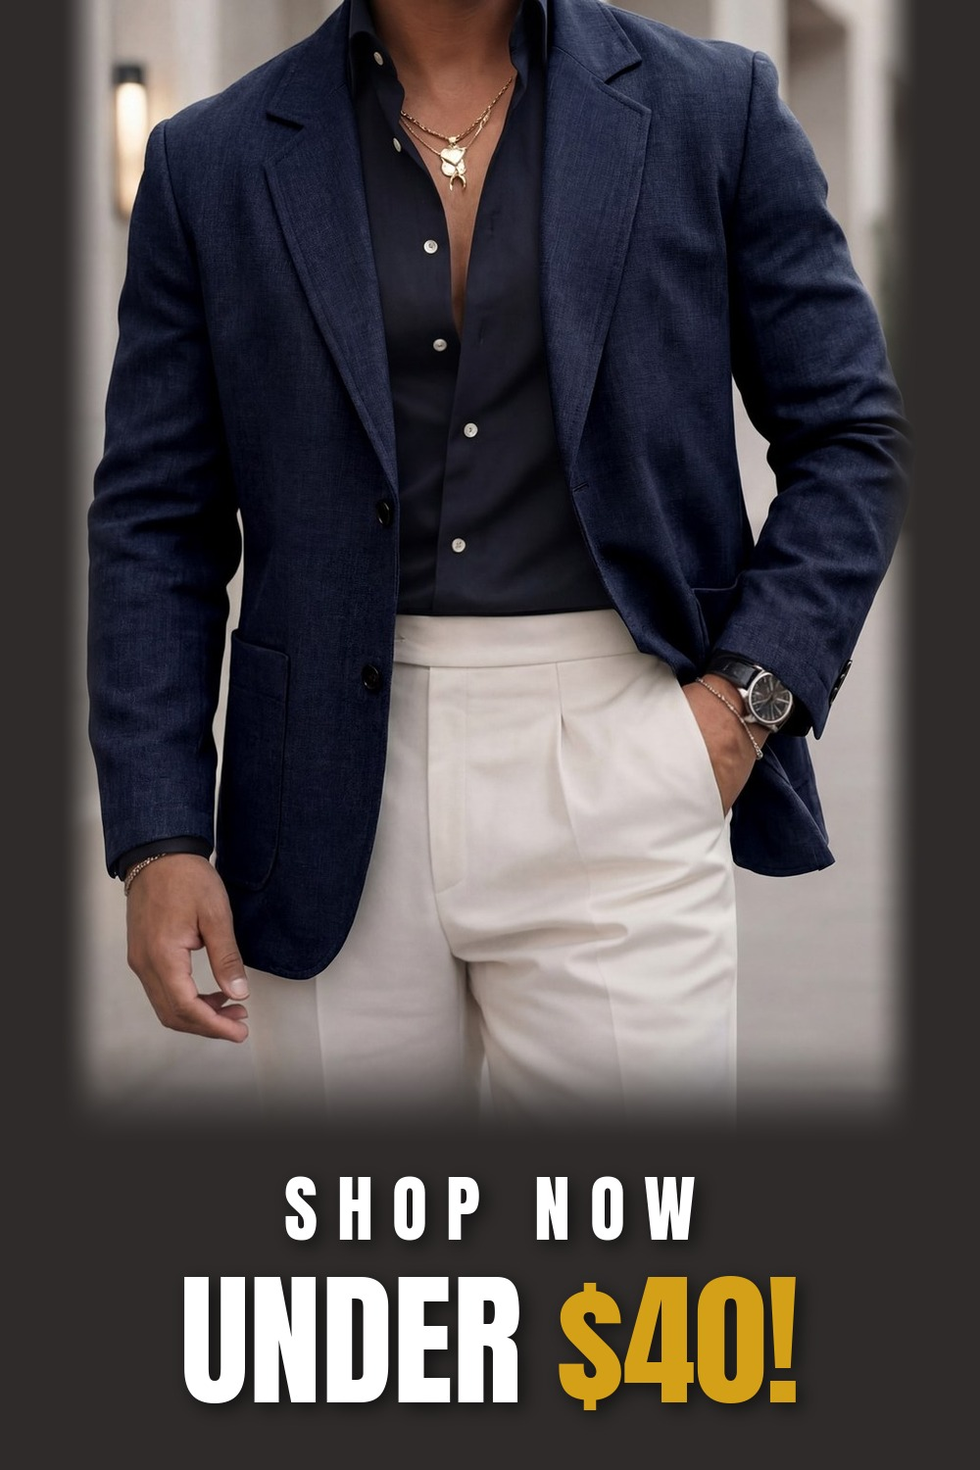
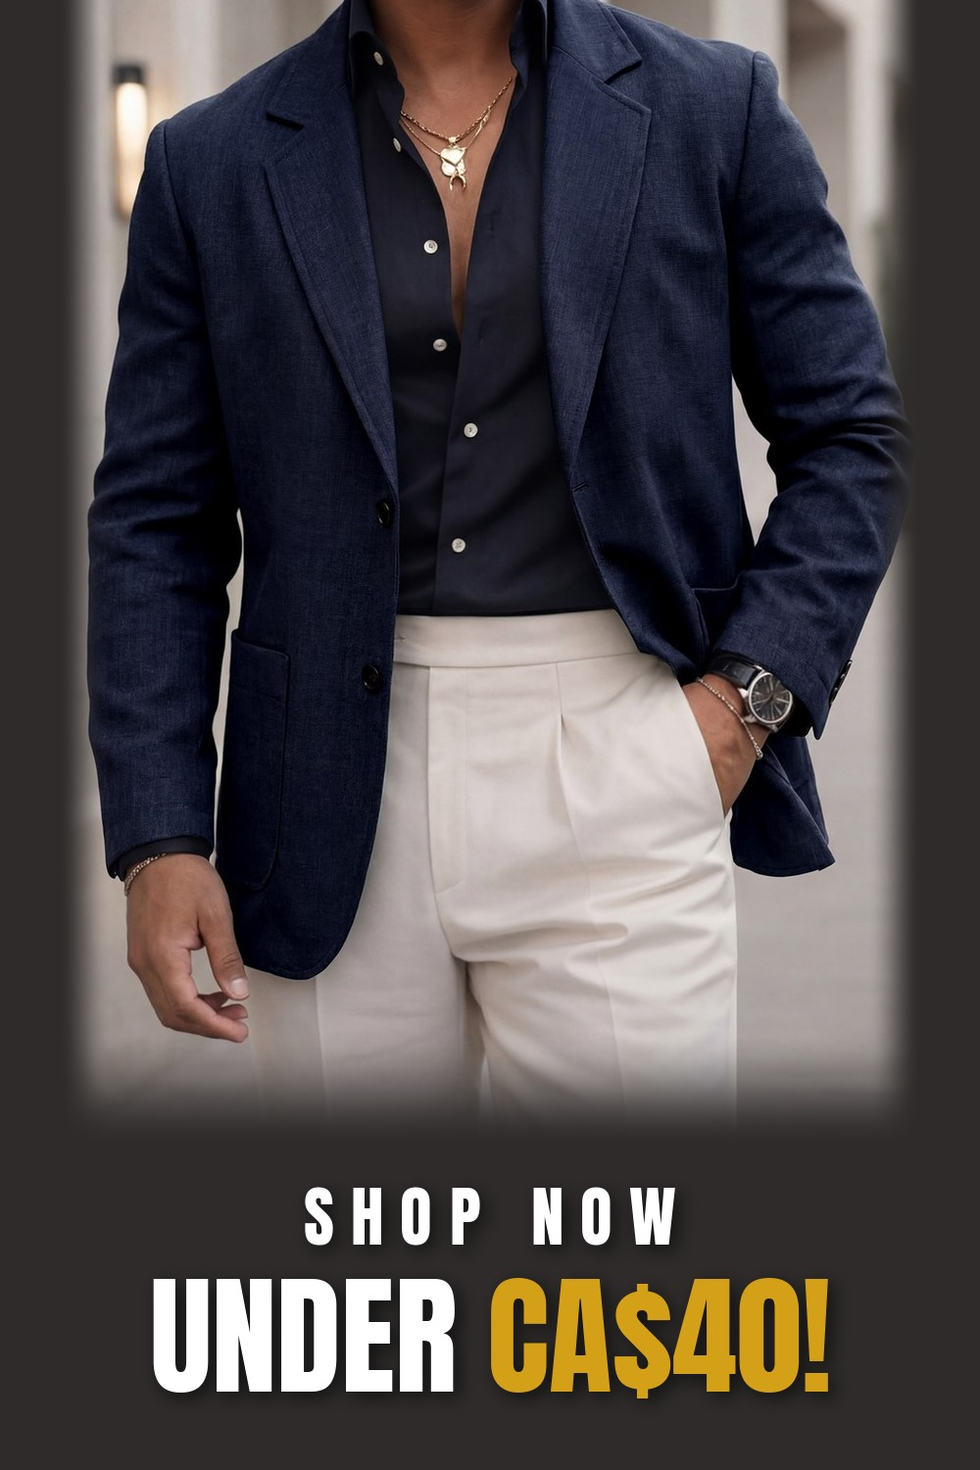
Show SHEIN pin prices as CA$ and re-render the Nov 9 pins
Links go to SHEIN Canada and prices are CAD, so product and outfit pins
now read "UNDER CA$X!". The CSV builder treats a bare "$" in the copy of
a SHEIN pin as an error from the Nov 9 batch on, and as a report warning
for older batches, which are already uploaded.

Nov 9: 20 product pins and the one outfit pin with a price re-rendered,
46 "$" changed to "CA$" in the pin copy, CSV and report regenerated.
Section names containing "$" are unchanged.

Changed region(s): [[0.155, 0.7973, 0.868, 0.9813]]

diff --git a/make_outfit_pin.py b/make_outfit_pin.py
@@ -16,7 +16,7 @@ Styles (default fade):
              (price line up to 70% of the width): a letter-spaced "SHOP THE
              LOOK" (gold "ON SALE NOW" if any item has a discount_percent,
              unless --no-sale-line)
-             at half the height of "UNDER $X!" below it (price in gold).
+             at half the height of "UNDER CA$X!" below it (price in gold).
              A photo taller than 3:4 with at least 18% empty floor at the
              bottom keeps its shape; the text goes in a fade over that floor.
              Anything else becomes a 1000x1500 (2:3) pin: the photo shrunk so
@@ -35,8 +35,10 @@ plain outfit-preview; outfit-pin.jpg is only for Pinterest.
 
 Price: the outfit's products.json prices (every record its page's cards
 link to, including items reused from another campaign) are totalled and rounded up to the next
-$5, giving "UNDER $X!" (112.30 -> UNDER $115!). An exact multiple of $5
-goes up to the next one (115.00 -> UNDER $120!) so the claim stays true.
+$5, giving "UNDER CA$X!" (112.30 -> UNDER CA$115!). An exact multiple of $5
+goes up to the next one (115.00 -> UNDER CA$120!) so the claim stays true.
+That's CA$ when every priced item is CAD (SHEIN links go to SHEIN Canada),
+else a plain $.
 If any item has no stored price (Amazon, Awin) the total would be
 wrong, so fade reads "SHOP THE LOOK" / "FULL FIT ↓" instead
 (the other styles say "SHOP THE FULL LOOK").
@@ -117,6 +119,16 @@ def price_cap(items):
         return None
     cents = sum(round(p["price"] * 100) for p in items)
     return (cents // 500 + 1) * 5
+
+
+def price_text(items):
+    """The total as the pin prints it: "CA$115" when every item is CAD, "$115"
+    otherwise, or None when price_cap has no total."""
+    cap = price_cap(items)
+    if cap is None:
+        return None
+    symbol = "CA$" if all(p.get("currency") == "CAD" for p in items) else "$"
+    return f"{symbol}{cap}"
 
 
 # ---------------------------------------------------------------- helpers
@@ -220,7 +232,7 @@ def deep_colour(img, box, value=0.18):
 
 def style_classic(img, cap, on_sale):
     w, h = img.size
-    text = f"UNDER ${cap}!" if cap else FALLBACK_TEXT
+    text = f"UNDER {cap}!" if cap else FALLBACK_TEXT
     top, bottom = round(0.678 * h), round(0.811 * h)
     overlay = Image.new("RGBA", img.size, (0, 0, 0, 0))
     ImageDraw.Draw(overlay).rectangle([0, top, w, bottom], fill=(0, 0, 0, 140))
@@ -258,7 +270,7 @@ def fade_text(pin, top, bottom, cap, on_sale):
         top_run, big_runs = ("SHOP THE LOOK", WHITE), [("FULL FIT ↓", WHITE)]
     else:
         top_run = ("ON SALE NOW", GOLD) if on_sale else ("SHOP THE LOOK", WHITE)
-        big_runs = [("UNDER ", WHITE), (f"${cap}!", GOLD)]
+        big_runs = [("UNDER ", WHITE), (f"{cap}!", GOLD)]
     big_text = "".join(t for t, _ in big_runs)
     w = pin.size[0]
 
@@ -352,7 +364,7 @@ def fade_extend(img, cap, on_sale):
 
 def style_tag(img, cap, on_sale):
     w, h = img.size
-    text = f"UNDER ${cap}" if cap else FALLBACK_TEXT
+    text = f"UNDER {cap}" if cap else FALLBACK_TEXT
     font = font_for_cap(0.032 * h)
     pad_x, pad_y = 0.9 * cap_h(font), 0.65 * cap_h(font)
     bw = text_width(font, text, 0.04 * cap_h(font)) + 2 * pad_x
@@ -380,7 +392,7 @@ def style_tag(img, cap, on_sale):
 
 def style_band(img, cap, on_sale):
     w, h = img.size
-    text = f"UNDER ${cap}!" if cap else FALLBACK_TEXT
+    text = f"UNDER {cap}!" if cap else FALLBACK_TEXT
     bh = round(0.085 * h)
     edges = edge_map(img)
     # Top tops from flush with the top edge; bottom ones down to flush
@@ -403,8 +415,9 @@ STYLES = {"classic": style_classic, "fade": style_fade, "tag": style_tag, "band"
 
 
 def render(preview_path, cap, on_sale, style="fade"):
-    """Returns (pin image, path taken). Only fade has paths ("overlay" or
-    "shrink") and returns a new canvas; the others draw on the photo."""
+    """Returns (pin image, path taken). cap is price_text's string, or None
+    for the no-total wording. Only fade has paths ("overlay" or "shrink")
+    and returns a new canvas; the others draw on the photo."""
     with Image.open(preview_path) as src:
         img = ImageOps.exif_transpose(src).convert("RGBA")
     pin, path = STYLES[style](img, cap, on_sale) or (img, None)
@@ -460,9 +473,9 @@ def main():
                 print(f"skip  {rel}: {why}")
                 skipped += 1
             continue
-        cap = price_cap(items)
+        cap = price_text(items)
         on_sale = not args.no_sale_line and any((p.get("discount_percent") or 0) > 0 for p in items)
-        label = (f"UNDER ${cap}" if cap else "no total") + (", on sale" if on_sale else "")
+        label = (f"UNDER {cap}" if cap else "no total") + (", on sale" if on_sale else "")
         pin, path = render(preview, cap, on_sale, args.style)
         pin.save(os.path.join(d, PIN_NAME), quality=92, optimize=True)
         how = f"{args.style}: {path}" if path else args.style

diff --git a/make_product_pin.py b/make_product_pin.py
@@ -1,7 +1,7 @@
 #!/usr/bin/env python3
 """
 Makes the Pinterest pin image for a single SHEIN product: the product's
-own photo with "SHOP NOW / UNDER $X!" text, saved as product-pin.jpg
+own photo with "SHOP NOW / UNDER CA$X!" text, saved as product-pin.jpg
 in the product folder. The photo is never cropped, and the original is
 never written to.
 
@@ -22,14 +22,15 @@ Layout: the same two paths as make_outfit_pin.py --style fade.
              at the bottom keeps its shape (scaled to 1000 wide); the text
              goes in a fade over that floor.
 Text: two centred Anton lines with a soft drop shadow, small
-letter-spaced white "SHOP NOW" over "UNDER $X!" (UNDER white, price
+letter-spaced white "SHOP NOW" over "UNDER CA$X!" (UNDER white, price
 gold #D4A017), the price line up to 70% of the pin's width, smaller if
 the block doesn't fit the space.
 
 Price: the product's products.json price, rounded UP. Under $10 to the
-next whole dollar (4.20 -> UNDER $5); $10 and up to the next $5
-(14.38 -> UNDER $15). An exact step goes one higher (15.00 -> UNDER $20)
-so "under" stays true. No % off is ever printed.
+next whole dollar (4.20 -> UNDER CA$5); $10 and up to the next $5
+(14.38 -> UNDER CA$15). An exact step goes one higher (15.00 -> UNDER CA$20)
+so "under" stays true. No % off is ever printed. A product with currency
+CAD reads CA$ (SHEIN links go to SHEIN Canada); any other reads a plain $.
 
 SHEIN only: Amazon/Awin products and products without a price are
 skipped, as are image_pending products (no photo yet).
@@ -92,6 +93,12 @@ def price_cap(price):
     if cents < 1000:
         return cents // 100 + 1
     return (cents // 500 + 1) * 5
+
+
+def price_text(p):
+    """The price as the pin prints it: "CA$15" for a CAD product, else "$15"."""
+    symbol = "CA$" if p.get("currency") == "CAD" else "$"
+    return f"{symbol}{price_cap(p['price'])}"
 
 
 def eligible(p):
@@ -215,11 +222,12 @@ def vertical_fade(img, y0, y1, colour, max_alpha=255):
 
 
 def draw_text(img, top, bottom, cap, runs=None):
-    """"SHOP NOW" over "UNDER $X!", or runs = (top run, big runs) in their
-    place, centred between top and bottom: the big line as wide as
-    TEXT_WIDTH allows, smaller if the block is taller than the space."""
+    """"SHOP NOW" over "UNDER <cap>!" (cap as price_text gives it), or runs =
+    (top run, big runs) in their place, centred between top and bottom: the
+    big line as wide as TEXT_WIDTH allows, smaller if the block is taller
+    than the space."""
     w = img.size[0]
-    top_run, big_runs = runs or (("SHOP NOW", WHITE), [("UNDER ", WHITE), (f"${cap}!", GOLD)])
+    top_run, big_runs = runs or (("SHOP NOW", WHITE), [("UNDER ", WHITE), (f"{cap}!", GOLD)])
     big_text = "".join(t for t, _ in big_runs)
 
     def block(big):
@@ -374,10 +382,10 @@ def main():
         if dead:
             note += f" ({len(dead)} dead or sold out)"
         print(f"{args.batch}: {len(pool)} products, {len(ok)} eligible SHEIN{note}, picked {len(chosen)}\n")
-        print(f"  {'#':>2}  {'price':>7}  {'disc':>4}  {'tag':<9}  product")
+        print(f"  {'#':>2}  {'price':>7}  {'disc':>4}  {'tag':<12}  product")
         for i, p in enumerate(chosen, 1):
             disc = f"{p['discount_percent']}%" if p.get("discount_percent") else "-"
-            print(f"  {i:>2}  {p['price']:>7.2f}  {disc:>4}  UNDER ${price_cap(p['price']):<3}  {p['id']}")
+            print(f"  {i:>2}  {p['price']:>7.2f}  {disc:>4}  UNDER {price_text(p):<6}  {p['id']}")
         print()
         todo += [p for p in chosen if p not in todo]
 
@@ -401,9 +409,9 @@ def main():
             continue
         if args.dry_run:
             continue
-        pin, path = render(photo, price_cap(p["price"]))
+        pin, path = render(photo, price_text(p))
         pin.save(out, quality=92, optimize=True)
-        print(f"made  {os.path.relpath(out, REPO)} [{path}]: UNDER ${price_cap(p['price'])}")
+        print(f"made  {os.path.relpath(out, REPO)} [{path}]: UNDER {price_text(p)}")
         made += 1
 
     if not args.dry_run:

diff --git a/make_pinterest_csv.py b/make_pinterest_csv.py
@@ -63,9 +63,13 @@ the live site (so push the pin images first), title <= 100 and full
 description <= 500 characters (Pinterest's limits), boards/sections in
 pin_settings.json, no duplicate pins/images/titles, no publish time in
 the past, no "$" in the copy of a pin with an Amazon item (Amazon
-prices can't be shown), no product pin of a SHEIN product whose seller
-is "marketplace" (a third-party store; see sellers.py). Product pins
-whose seller is still "unchecked" go through, listed in the report.
+prices can't be shown), no bare "$" (one not preceded by "CA") in the
+title, description or alt text of a pin with a SHEIN item (SHEIN prices
+are CAD, so they read CA$; only a warning in the report for a batch
+starting before CAD_COPY_FROM, whose pins are already uploaded), no
+product pin of a SHEIN product whose seller is "marketplace" (a
+third-party store; see sellers.py). Product pins whose seller is still
+"unchecked" go through, listed in the report.
 
 --unpushed-media turns a Media URL that isn't live yet but exists in the
 repo into a warning, so a CSV can go in a PR with its new images. Rebuild
@@ -365,9 +369,11 @@ def check_live(pins, problems, warnings, unpushed_media=False):
 # --- validation ------------------------------------------------------------
 
 REQUIRED = ("type", "id", "title", "description", "hashtags", "alt_text", "board", "section")
+BARE_DOLLAR = re.compile(r"(?<!CA)\$")
+CAD_COPY_FROM = date(2026, 11, 9)   # first batch held to CA$ in its pin copy
 
 
-def validate(pins, settings, problems):
+def validate(pins, settings, problems, warnings, week_start):
     boards = settings["boards"]
     seen = {}
     for p in pins:
@@ -399,6 +405,12 @@ def validate(pins, settings, problems):
                             f"(disclosure_retailers in pin_settings.json)")
         if p["has_amazon"] and "$" in title + p["description"]:
             problems.append(f"{label}: '$' in the copy of a pin with an Amazon item")
+        if "SHEIN" in p["retailers"]:
+            bare = [k for k in ("title", "description", "alt_text") if BARE_DOLLAR.search(p[k])]
+            if bare:
+                listed = problems if week_start >= CAD_COPY_FROM else warnings
+                listed.append(f"{label}: bare '$' in the {', '.join(bare)} of a pin with a "
+                              f"SHEIN item (SHEIN prices are CAD: write CA$)")
         for key, val in (("pin", (p["type"], p["id"])), ("Media URL", p["media"]),
                          ("title", title.casefold())):
             if (key, val) in seen:
@@ -537,7 +549,7 @@ def main():
     if not pins:
         problems.append("no usable pins")
     else:
-        validate(pins, settings, problems)
+        validate(pins, settings, problems, warnings, week_start)
         days = schedule(pins, week_start)
         now = datetime.now(timezone.utc)
         for p in pins:

diff --git a/pinterest/pinterest_bulk_nov-9_report.md b/pinterest/pinterest_bulk_nov-9_report.md
@@ -50,7 +50,7 @@ Files: pinterest/pinterest_bulk_nov-9.csv
 These section names contain "/", which Pinterest's board column uses to separate board from section, so these pins go to the board only. Move them after upload, or rename the section without a "/" and list the new name in pin_settings.json.
 
 - The Winter Date Night Trench Fit 🌙 → Business Casual Outfits for Men › Date Night/Night Out
-- Khaki Trench Coat Under $55 for Date Night 🌙 → Business Casual Outfits for Men › Date Night/Night Out
+- Khaki Trench Coat Under CA$55 for Date Night 🌙 → Business Casual Outfits for Men › Date Night/Night Out
 - A Black Rib Knit Turtleneck for Date Night 🌙 → Business Casual Outfits for Men › Date Night/Night Out
 
 ### AI-modified label
@@ -107,8 +107,8 @@ The CSV has no column for it. Paste after upload:
 
 - The Sherpa-Lined Brown Jacket for Cold Tailgates 🍂: Men's brown faux leather jacket with beige sherpa lining
 - The Leafs Night Fit That Still Looks Like an Outfit 🏒: Men's hockey night outfit with blue hoodie, black jacket, jeans and snow boots
-- Thermal-Lined Jeans Under $55 🔥: Men's blue water-washed jeans with thermal lining
-- A Light Blue Button Down Under $25 👔: Men's light blue smart casual button down shirt
+- Thermal-Lined Jeans Under CA$55 🔥: Men's blue water-washed jeans with thermal lining
+- A Light Blue Button Down Under CA$25 👔: Men's light blue smart casual button down shirt
 - A Clean Black Full-Zip Sweater 🖤: Men's black full-zip cotton sweater
 - Oilers Fans, This Is the Cold-Weather Fit 🧡💙: Men's winter street outfit with royal blue hoodie, black padded coat and black boots
 - The Sleek Black Tommy Hilfiger Boot 🖤: Men's black Tommy Hilfiger lace-up boots
@@ -117,42 +117,42 @@ The CSV has no column for it. Paste after upload:
 - Red Goal Light Energy, No Jersey Needed 🚨: Men's hockey night outfit with red sweatshirt, black moto jacket, jeans and red scarf
 - The House of Blanks Navy Crewneck for Hockey Night 💙: Men's navy House of Blanks relaxed fit fleece crewneck
 - A Hooded Padded Coat for Winter Nights 🖤: Men's black hooded padded winter coat with zip front
-- A Wool Blend Chore-Style Jacket Under $45 🧥: Men's khaki wool blend chore-style shirt jacket
+- A Wool Blend Chore-Style Jacket Under CA$45 🧥: Men's khaki wool blend chore-style shirt jacket
 - The All-Black Fit for a Late Puck Drop 🖤: Men's all-black hockey night outfit with padded coat and red plaid beanie and scarf
-- Black Pleated Dress Pants Under $30 👖: Men's black pleated straight leg dress pants
-- A Fluffy Pajama Set Under $40 🛋: Men's royal blue fleece pajama top with black and white plaid pants
+- Black Pleated Dress Pants Under CA$30 👖: Men's black pleated straight leg dress pants
+- A Fluffy Pajama Set Under CA$40 🛋: Men's royal blue fleece pajama top with black and white plaid pants
 - A Burgundy Sherpa-Lined Hooded Fleece 🍷: Men's burgundy full-zip hooded fleece with sherpa lining
 - Kamik Snow Boots for the Walk to the Game ❄: Men's black Kamik Forester snow boots
 - The Timex Easy Reader, a Gift That Never Dates ⌚: Men's Timex Easy Reader watch with brown leather strap
 - Navy Night at the Rink, Done Right 💙: Men's navy outfit with sherpa trucker jacket, khaki chinos and brown Chelsea boots
 - An Oilers Hoodie for Hockey Night 🧡💙: AI colour match of a royal hoodie for a licensed Oilers hoodie
 - House of Blanks Black Speckle Hoodie 🌨: Men's black speckle House of Blanks pullover hoodie
-- Thermal Lined Coat Under $55 for Real Cold ❄: Men's black thermal lined padded coat with a collar
-- A Brown Faux Suede Shacket Under $30 🤎: Men's brown faux suede fleece lined shacket
+- Thermal Lined Coat Under CA$55 for Real Cold ❄: Men's black thermal lined padded coat with a collar
+- A Brown Faux Suede Shacket Under CA$30 🤎: Men's brown faux suede fleece lined shacket
 - The Cold Tailgate Fit That Actually Keeps You Warm 🏈: Men's cold tailgate outfit with plaid flannel, brown sherpa jacket, jeans and boots
-- Black Cuffed Sweatpants Under $20 🛋: Men's black cuffed sweatpants with drawstring waist
-- A Navy Suit Blazer Under $40 💼: Men's navy blue suit blazer
+- Black Cuffed Sweatpants Under CA$20 🛋: Men's black cuffed sweatpants with drawstring waist
+- A Navy Suit Blazer Under CA$40 💼: Men's navy blue suit blazer
 - A Heavy Hoodie for the Coldest Game Days 🥶: Men's black heather Legendary Whitetails hooded sweatshirt
 - Columbia Firecamp Boots for Cold, Wet Days 🥾: Men's black and grey Columbia Firecamp lace-up boots
 - Levi's Red Plaid Beanie and Scarf Set 🧣: Men's red plaid Levi's waffle beanie and scarf set
 - Winter Sideline Fit, Built for the Late Season 🥶: Men's cold game day outfit with grey puffer jacket, black hoodie, gloves and boots
 - A '47 Raptors Vintage Tee for Game Night 🏀: AI colour match of a black tee for a licensed Raptors tee
 - House of Blanks Black Straight Leg Sweatpants 🖤: Men's black House of Blanks straight leg sweatpants
-- Light Grey Short Padded Coat Under $60 🌨: Men's light grey short padded coat with stand collar
-- The Plain Black Hoodie Under $30 🖤: Men's plain black pullover hoodie with kangaroo pocket
+- Light Grey Short Padded Coat Under CA$60 🌨: Men's light grey short padded coat with stand collar
+- The Plain Black Hoodie Under CA$30 🖤: Men's plain black pullover hoodie with kangaroo pocket
 - Raptors Night, Layered and Easy 🏀: Men's basketball night outfit with black tee, black zip sweater and white sneakers
-- A Red and White Sweatshirt Under $25 🚨: Men's red and white letter print sweatshirt
-- A Full Navy Suit Set Under $70 🤵: Men's navy blue notched collar blazer and pants suit set
+- A Red and White Sweatshirt Under CA$25 🚨: Men's red and white letter print sweatshirt
+- A Full Navy Suit Set Under CA$70 🤵: Men's navy blue notched collar blazer and pants suit set
 - The Easy Fleece Quarter-Zip From Wrangler 🌫: Men's light heather gray Wrangler fleece quarter-zip pullover
 - Tommy Hilfiger Low-Tops in White and Navy 👟: Men's white and navy Tommy Hilfiger low-top sneakers
 - The Casio Diver Style Watch ⌚: Men's silver-tone Casio diver style stainless steel watch
 - Friendsgiving Fit in Warm Browns 🍂: Men's holiday outfit with beige quarter-zip, brown shacket and black pants
 - A Black Rib Knit Turtleneck for Date Night 🌙: Men's black rib knit cotton turtleneck sweater
 - Heather Ash Straight Leg Sweatpants 🌫: Men's heather ash House of Blanks straight leg sweatpants
-- A Short Wool Overcoat Under $45 🖤: Men's short black wool overcoat with button front
-- A Beige Quarter-Zip Sweater for Under $40 🎁: Men's beige knit quarter-zip sweater with stand collar
+- A Short Wool Overcoat Under CA$45 🖤: Men's short black wool overcoat with button front
+- A Beige Quarter-Zip Sweater for Under CA$40 🎁: Men's beige knit quarter-zip sweater with stand collar
 - The Holiday Party Suit, Minus the Tie 🎄: Men's holiday party outfit with navy suit, black turtleneck and short black overcoat
-- A Colour Block Zip Sweatshirt Under $30 🖤: Men's black colour block zip-up sweatshirt
+- A Colour Block Zip Sweatshirt Under CA$30 🖤: Men's black colour block zip-up sweatshirt
 - The Columbia Hooded Jacket for Winter Game Days 🧥: Men's black Columbia insulated hooded winter jacket
 - Black Chelsea Boots That Go With Everything 🖤: Men's black Chelsea ankle boots with elastic side panels
 - Reebok Club C: The Classic Court Sneaker 👟: Men's chalk white and green Reebok Club C court sneakers
@@ -160,20 +160,20 @@ The CSV has no column for it. Paste after upload:
 - Speckle and Ash: Quiet Winter Streetwear 🌨: Men's winter streetwear outfit with light grey padded coat and grey sweatpants
 - An Olive Long-Sleeve Henley for Easy Layers 🌿: Men's olive heather long-sleeve henley
 - The House of Blanks Heavyweight Long Sleeve Tee 🖤: Men's off black House of Blanks heavyweight long sleeve tee
-- Khaki Trench Coat Under $55 for Date Night 🌙: Men's khaki button-front trench coat
-- A Black Button Cardigan Under $25 🖤: Men's black button-front cardigan
+- Khaki Trench Coat Under CA$55 for Date Night 🌙: Men's khaki button-front trench coat
+- A Black Button Cardigan Under CA$25 🖤: Men's black button-front cardigan
 - Black Hoodie, Chore Coat, Done 🧥: Men's streetwear outfit with black hoodie, khaki chore jacket and red plaid scarf
-- A Slim Black Turtleneck Under $15 🖤: Men's black slim fit turtleneck
+- A Slim Black Turtleneck Under CA$15 🖤: Men's black slim fit turtleneck
 - The Calvin Klein Puffer in Iron Grey 🥶: Men's Calvin Klein iron grey full-zip down puffer jacket
 - Dark Brown Chelsea Boots for Chinos and Trousers 🤎: Men's dark brown Deer Stags Chelsea boots
 - The Tommy Hilfiger Striped Scarf He'll Actually Wear 🎁: Men's red striped Tommy Hilfiger scarf
 - The Winter Date Night Trench Fit 🌙: Men's winter date night outfit with khaki trench coat and black turtleneck
 - Dark Khaki Stretch Chinos for Every Day 🍂: Men's dark khaki athletic-fit stretch chinos
 - The Relaxed Plaid Flannel for Cold Tailgates 🍂: Men's brown and red plaid relaxed-fit flannel shirt
-- A Black Moto Jacket Under $55 🏍: Men's black faux leather zip-up moto jacket
-- A Dark Grey Crew Neck Sweater Under $25 🌫: Men's dark grey crew neck sweater
+- A Black Moto Jacket Under CA$55 🏍: Men's black faux leather zip-up moto jacket
+- A Dark Grey Crew Neck Sweater Under CA$25 🌫: Men's dark grey crew neck sweater
 - The Navy Blazer Office Fit That Works All Winter 💼: Men's business casual outfit with navy blazer, black cardigan and light blue shirt
-- A Burgundy Henley Under $20 🍷: Men's burgundy long sleeve henley with button front
+- A Burgundy Henley Under CA$20 🍷: Men's burgundy long sleeve henley with button front
 - Levi's Corduroy Sherpa Trucker in Navy 💙: Men's navy corduroy Levi's trucker jacket with sherpa collar
 - Timberland Chelsea Boots in Full-Grain Leather 🍂: Men's dark brown full-grain leather Timberland Chelsea boots
 - Leather Touchscreen Gloves, a Gift That Gets Used 🎁: Men's black leather touchscreen gloves with ribbed cuff

diff --git a/CLAUDE.md b/CLAUDE.md
@@ -248,9 +248,9 @@ records exist, since the price comes from there), run
 also covers `-oct-12-2`, `-oct-12-3`, ...). It writes the Pinterest pin
 image `outfit-pin.jpg` into each campaign folder from its
 `outfit-preview.*`, with the price overlay that used to be added by hand
-in Gemini: "UNDER $X!" from the outfit's total rounded up to the next
-$5, or "FULL FIT ↓" when any item has no stored price (Amazon, Awin),
-under "SHOP THE LOOK" ("ON SALE NOW" if any item has a discount, unless
+in Gemini: "UNDER CA$X!" from the outfit's total rounded up to the next
+$5 (CA$ when every item is CAD, as SHEIN prices are), or "FULL FIT ↓"
+when any item has no stored price (Amazon, Awin), under "SHOP THE LOOK" ("ON SALE NOW" if any item has a discount, unless
 you pass `--no-sale-line`, as the Oct 26 / Nov 2 batch did). The
 site keeps using the plain `outfit-preview`, which the script never
 modifies. It prints one line per pin naming the path it took:
@@ -279,7 +279,7 @@ picks the batch's 20 best SHEIN deals (any with `discount_percent` of
 20 or more first, biggest discount first, then the rest cheapest first;
 smaller discounts don't count), prints the list, and writes the
 Pinterest pin `product-pin.jpg` into each product's folder: a 1000x1500
-pin with the product photo above "SHOP NOW" / "UNDER $X!" (the price
+pin with the product photo above "SHOP NOW" / "UNDER CA$X!" (the price
 rounded up: to the next dollar under $10, else to the next $5). Amazon
 and Awin products, products with no price, and `image_pending` products
 are skipped. The product's own photo is never modified. Add `--dry-run`
@@ -319,7 +319,9 @@ were hand-scheduled). It validates everything first and writes no CSV if anythin
 fails: every Link and Media URL must return 200 on the live site (so
 the pin images must be pushed first), titles ≤ 100 and full
 descriptions ≤ 500 characters, no duplicates, no past publish times,
-no "$" in the copy of a pin with an Amazon item, no retailer the
+no "$" in the copy of a pin with an Amazon item, no bare "$" (not
+"CA$") in the title, description or alt text of a pin with a SHEIN
+item (a report warning for batches before Nov 9), no retailer the
 disclosures don't cover (the Awin wording names House of Blanks, so another
 Awin merchant needs its own first), and every board and
 section must be listed in `pin_settings.json`. Keep that list identical
